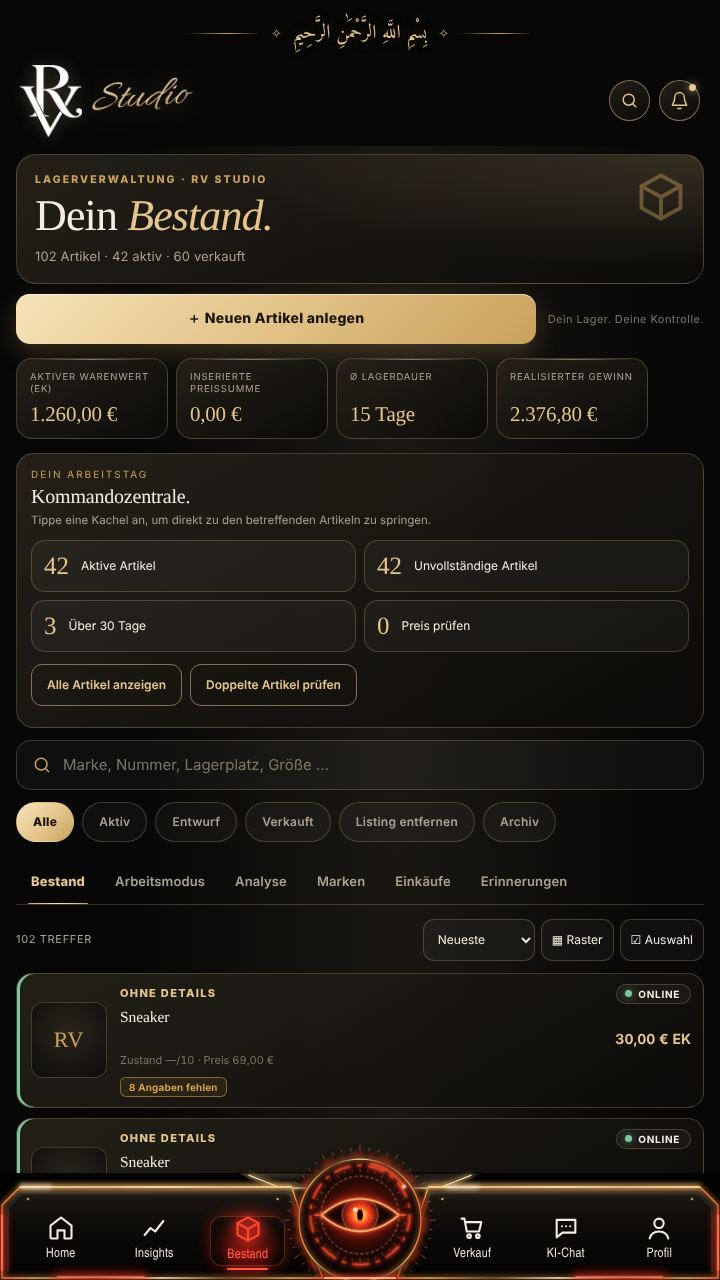
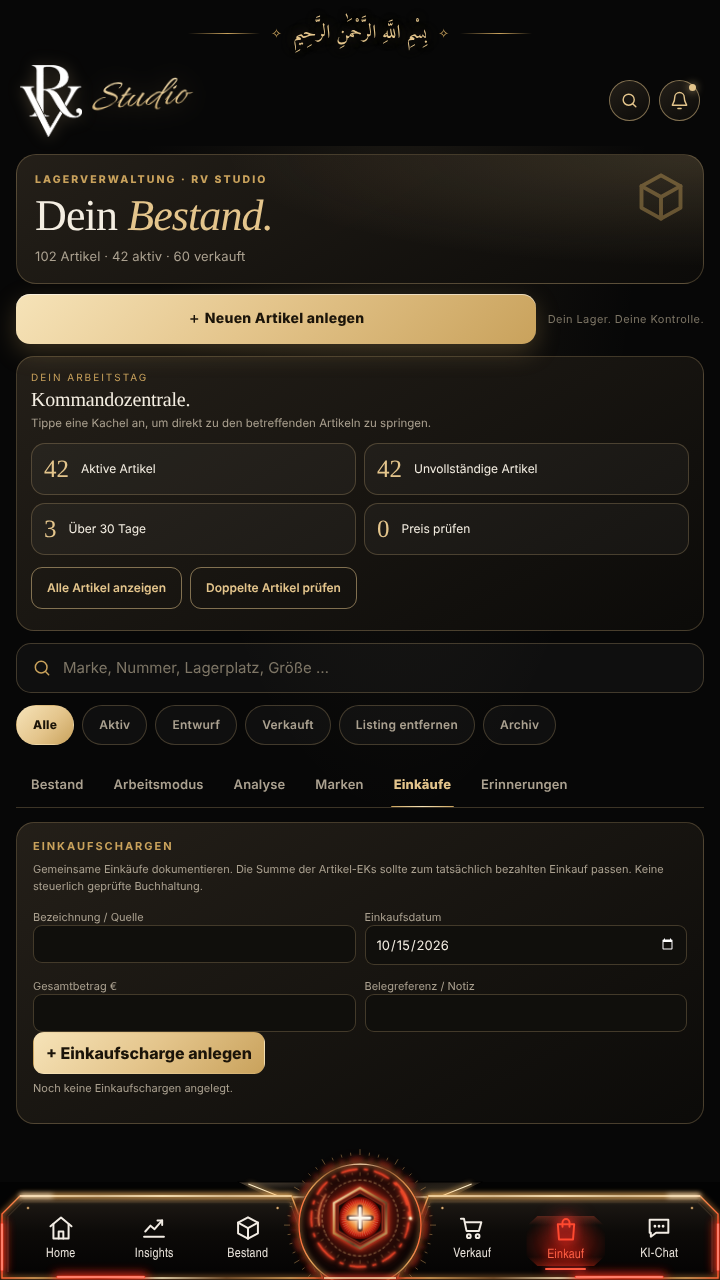
Rahmen aus Referenzbild, Menü neu mit Energie-Reaktor statt Auge
- Äußerer Rahmen und Krone aus dem gelieferten Referenzbild (rv-frame.webp,
  Innenbereich transparent), skaliert per border-image auf jede Breite
- Rahmen und Menü getrennt: Menü bleibt eigenständig gezeichnet
- Menüpunkte: Home, Insights, Bestand | Verkauf, Einkauf, KI-Chat
  (Einkauf öffnet den Einkäufe-Tab im Bestand und leuchtet aktiv)
- Mitte: Energie-Reaktor im Stil von Globus/Roboter (Skalenring, drehende
  Ringe, kreisender Lichtschweif, sechseckiger Kern mit pulsierender Energie
  und Plus) – legt einen neuen Artikel an
- Kachelförmiges rotes Leuchten für aktive Seite und beim Antippen

Claude-Session: https://claude.ai/code/session_0194bcZ5PbUBuV3hzmwdGD96

diff --git a/public/fx.js b/public/fx.js
@@ -506,127 +506,41 @@
     setTimeout(blink, 1800); setTimeout(look, 1200);
   }
 
-  /* Äußerer Panzerrahmen wie in der Referenz (fest am Bildschirmrand): massive Metallschienen,
-     Panzerplatten mit Fasen, Nieten, goldene Leuchtkanten, rote Lichtbalken und wandernde Lichtreflexe */
-  function setupBezel() {
-    if (doc.querySelector('.cc-bezel')) return;
-    var svg = svgEl('svg', { class: 'cc-bezel', 'aria-hidden': 'true', focusable: 'false' });
-    doc.body.appendChild(svg);
-    function draw() {
-      var W = window.innerWidth, H = window.innerHeight;
-      var k = W < 720 ? Math.max(0.4, W / 720) : 1, rw = 24 * k, bw = 9 * k;
-      svg.setAttribute('viewBox', '0 0 ' + W + ' ' + H); svg.setAttribute('width', W); svg.setAttribute('height', H);
-      function P(d, stroke, sw, extra) { return '<path d="' + d + '" fill="none" stroke="' + stroke + '" stroke-width="' + (+sw).toFixed(2) + '" ' + (extra || '') + '/>'; }
-      function light(d, w) { return '<g class="cc-bz-light">' + P(d, '#ff2414', 10 * w * k, 'opacity=".75" filter="url(#bzB2)" stroke-linecap="round"') + P(d, '#ff3a26', 3.6 * w * k, 'stroke-linecap="round"') + P(d, '#ffe4d2', 1.1 * w * k, 'stroke-linecap="round"') + '</g>'; }
-      function gold(d, w) { return P(d, '#ffb350', 5 * w * k, 'opacity=".55" filter="url(#bzB)" stroke-linejoin="round"') + P(d, 'url(#bzG)', 1.4 * w * k, 'stroke-linejoin="round"'); }
-      function sweep(d, dur, delay) { return P(d, '#fff6dc', 2.2 * k, 'pathLength="1000" stroke-dasharray="70 930" class="cc-bz-sweep" style="animation-duration:' + dur + 's;animation-delay:' + delay + 's" filter="url(#bzB)" stroke-linecap="round"'); }
-      function rivet(x, y) { return '<circle cx="' + x.toFixed(1) + '" cy="' + y.toFixed(1) + '" r="' + (1.7 * k).toFixed(2) + '" fill="url(#bzR)"/>'; }
-      var m = '<defs>' +
-        '<linearGradient id="bzM" x1="0" y1="0" x2="1" y2="0"><stop stop-color="#060606"/><stop offset=".2" stop-color="#2b2620"/><stop offset=".38" stop-color="#0f0e0c"/><stop offset=".6" stop-color="#3b3226"/><stop offset=".8" stop-color="#14120f"/><stop offset="1" stop-color="#2a231a"/></linearGradient>' +
-        '<linearGradient id="bzMr" x1="1" y1="0" x2="0" y2="0"><stop stop-color="#060606"/><stop offset=".2" stop-color="#2b2620"/><stop offset=".38" stop-color="#0f0e0c"/><stop offset=".6" stop-color="#3b3226"/><stop offset=".8" stop-color="#14120f"/><stop offset="1" stop-color="#2a231a"/></linearGradient>' +
-        '<linearGradient id="bzP" x1="0" y1="0" x2="1" y2="1"><stop stop-color="#4a4034"/><stop offset=".25" stop-color="#16130f"/><stop offset=".55" stop-color="#2c251c"/><stop offset="1" stop-color="#0a0908"/></linearGradient>' +
-        '<linearGradient id="bzT" x1="0" y1="0" x2="0" y2="1"><stop stop-color="#3a3228"/><stop offset=".35" stop-color="#121110"/><stop offset=".7" stop-color="#25201a"/><stop offset="1" stop-color="#0b0a09"/></linearGradient>' +
-        '<linearGradient id="bzG" x1="0" y1="0" x2="1" y2="1"><stop stop-color="#fff0c4"/><stop offset=".3" stop-color="#d09048"/><stop offset=".55" stop-color="#6a4626"/><stop offset=".8" stop-color="#f0bb70"/><stop offset="1" stop-color="#fff0c4"/></linearGradient>' +
-        '<radialGradient id="bzR"><stop stop-color="#fff0c8"/><stop offset=".5" stop-color="#a77a44"/><stop offset="1" stop-color="#2a1e12"/></radialGradient>' +
-        '<filter id="bzB" x="-50%" y="-50%" width="200%" height="200%"><feGaussianBlur stdDeviation="' + (2.6 * k).toFixed(2) + '"/></filter>' +
-        '<filter id="bzB2" x="-50%" y="-50%" width="200%" height="200%"><feGaussianBlur stdDeviation="' + (4.5 * k).toFixed(2) + '"/></filter></defs>';
-      var top = 40 * k, bot = H - 30 * k;
-      [0, 1].forEach(function (side) {
-        var X = function (x) { return side ? W - x : x; };
-        // Grundschiene
-        m += '<path d="M' + X(0) + ' 0 H' + X(rw) + ' V' + H + ' H' + X(0) + ' Z" fill="url(#' + (side ? 'bzMr' : 'bzM') + ')"/>';
-        m += P('M' + X(rw * 0.35) + ' ' + top + ' V' + bot, '#050505', 2 * k) + P('M' + X(rw * 0.35 + 1.5 * k) + ' ' + top + ' V' + bot, '#5a4a36', 0.7 * k);
-        // Panzerplatten, die nach innen vorstehen
-        var plates = side ? [[0.17, 0.36], [0.47, 0.66], [0.76, 0.9]] : [[0.12, 0.31], [0.42, 0.6], [0.7, 0.88]];
-        var edge = 'M' + X(rw) + ' ' + top;
-        plates.forEach(function (pl, i) {
-          var y0 = H * pl[0], y1 = H * pl[1], o = rw + bw, f = bw;
-          var plate = 'M' + X(rw * 0.55) + ' ' + (y0 - f) + ' L' + X(rw) + ' ' + (y0 - f) + ' L' + X(o) + ' ' + y0 + ' V' + y1 + ' L' + X(rw) + ' ' + (y1 + f) + ' L' + X(rw * 0.55) + ' ' + (y1 + f) + ' Z';
-          m += '<path d="' + plate + '" fill="url(#bzP)" stroke="#000" stroke-width="' + (k).toFixed(2) + '"/>';
-          m += P('M' + X(rw * 0.6) + ' ' + (y0 - f + 2 * k) + ' L' + X(rw + 1 * k) + ' ' + (y0 - f + 2 * k) + ' L' + X(o - 2 * k) + ' ' + (y0 + 1 * k), '#c99a5c', 0.9 * k, 'opacity=".8"');
-          edge += ' V' + (y0 - f) + ' L' + X(o) + ' ' + y0 + ' V' + y1 + ' L' + X(rw) + ' ' + (y1 + f);
-          var lx = X(rw + bw * 0.45), ly0 = y0 + 12 * k, ly1 = y1 - 12 * k;
-          m += light('M' + lx + ' ' + ly0 + ' V' + (i === 1 ? ly0 + (ly1 - ly0) * 0.6 : ly1), 1);
-          m += rivet(X(rw * 0.75), y0 - f * 0.4) + rivet(X(rw * 0.75), y1 + f * 0.4);
-          // Fasen-Chevrons in der Lücke
-          var gy = y1 + (H * 0.04);
-          m += P('M' + X(2 * k) + ' ' + (gy - 9 * k) + ' L' + X(rw - 2 * k) + ' ' + (gy + 5 * k) + ' M' + X(2 * k) + ' ' + (gy - 1 * k) + ' L' + X(rw * 0.7) + ' ' + (gy + 10 * k), '#e0aa62', 1.1 * k, 'opacity=".85"');
-        });
-        edge += ' V' + bot;
-        m += gold(edge, 1);
-        m += sweep(edge, side ? 7 : 6, side ? -3 : 0);
-        // Kleine rote Akzente außen
-        m += P('M' + X(3 * k) + ' ' + (H * 0.38) + ' V' + (H * 0.44) + ' M' + X(3 * k) + ' ' + (H * 0.64) + ' V' + (H * 0.67), '#ff3a25', 1.6 * k, 'filter="url(#bzB)"');
-      });
-      // Krone oben: breites Band, zweistufiges Trapez, zwei rote Lichtbalken, Flügelplatten zu den Ecken
-      var th = 12 * k, c0 = W * 0.22, c1 = W * 0.78, cd = 34 * k, s1 = 26 * k;
-      m += '<path d="M0 0 H' + W + ' V' + th + ' H0 Z" fill="url(#bzT)"/>';
-      var crown = 'M' + c0 + ' 0 H' + c1 + ' L' + (c1 - s1) + ' ' + cd + ' H' + (c0 + s1) + ' Z';
-      m += '<path d="' + crown + '" fill="url(#bzT)" stroke="#000" stroke-width="' + k + '"/>';
-      var inner = 'M' + (c0 + 18 * k) + ' ' + (4 * k) + ' H' + (c1 - 18 * k) + ' L' + (c1 - s1 - 6 * k) + ' ' + (cd - 7 * k) + ' H' + (c0 + s1 + 6 * k) + ' Z';
-      m += '<path d="' + inner + '" fill="#0a0908" stroke="#4e3f2e" stroke-width="' + (0.8 * k) + '"/>';
-      var ce = 'M0 ' + th + ' H' + c0 + ' L' + (c0 + s1) + ' ' + cd + ' H' + (c1 - s1) + ' L' + c1 + ' ' + th + ' H' + W;
-      m += gold(ce, 1) + sweep(ce, 5.5, -1);
-      m += light('M' + (W * 0.34) + ' ' + (cd * 0.38) + ' H' + (W * 0.66), 1.15);
-      m += light('M' + (W * 0.43) + ' ' + (cd * 0.72) + ' H' + (W * 0.57), 0.7);
-      for (var ri = 0; ri < 4; ri++) { var rx = c0 + 30 * k + ri * 10 * k; m += P('M' + rx + ' ' + (7 * k) + ' L' + (rx + 6 * k) + ' ' + (cd - 10 * k), '#3a3026', 1.4 * k) + P('M' + (W - rx) + ' ' + (7 * k) + ' L' + (W - rx - 6 * k) + ' ' + (cd - 10 * k), '#3a3026', 1.4 * k); }
-      [0, 1].forEach(function (side) {
-        var X = function (x) { return side ? W - x : x; };
-        var wing = 'M' + X(0) + ' 0 H' + X(W * 0.17) + ' L' + X(W * 0.13) + ' ' + (th + 8 * k) + ' H' + X(rw + 22 * k) + ' L' + X(rw) + ' ' + (th + 30 * k) + ' V' + (th + 70 * k) + ' H' + X(0) + ' Z';
-        m += '<path d="' + wing + '" fill="url(#bzP)" stroke="#000" stroke-width="' + k + '"/>';
-        var we = 'M' + X(rw) + ' ' + (th + 70 * k) + ' V' + (th + 30 * k) + ' L' + X(rw + 22 * k) + ' ' + (th + 8 * k) + ' H' + X(W * 0.13) + ' L' + X(W * 0.17) + ' 0';
-        m += P(we, '#ffc46c', 7 * k, 'opacity=".7" filter="url(#bzB)"') + P(we, '#fff2d0', 1.6 * k);
-        m += light('M' + X(W * 0.05) + ' ' + (th * 0.6) + ' H' + X(W * 0.11), 0.7);
-        m += rivet(X(rw * 0.6), th + 40 * k) + rivet(X(W * 0.15), th * 0.5);
-      });
-      svg.innerHTML = m;
-    }
-    draw();
-    window.addEventListener('resize', draw);
-    window.addEventListener('orientationchange', draw);
-  }
-
-  /* Allsehendes Auge in der Mitte des Menüs (im Stil von Globus und Roboter) */
-  function setupNavEye() {
-    var btn = doc.getElementById('navStudio'); if (!btn || btn.querySelector('.cc-navEye')) return;
-    var S = svgEl('svg', { viewBox: '0 0 100 100', class: 'cc-navEye', 'aria-hidden': 'true' });
+  /* Energie-Reaktor in der Mitte des Menüs (Neuer Artikel), im Stil von Globus und Roboter */
+  function setupNavCore() {
+    var btn = doc.querySelector('#bottomnav .orb'); if (!btn || btn.querySelector('.cc-core')) return;
+    var S = svgEl('svg', { viewBox: '0 0 100 100', class: 'cc-core', 'aria-hidden': 'true' });
     var d = svgEl('defs', {});
-    function grad(id, stops, attrs) { var g = svgEl('radialGradient', Object.assign({ id: id }, attrs || {})); stops.forEach(function (q) { g.appendChild(svgEl('stop', { offset: q[0], 'stop-color': q[1], 'stop-opacity': q[2] == null ? '1' : q[2] })); }); d.appendChild(g); }
-    grad('ccEyHalo', [['0', '#ff4a20', '.55'], ['.5', '#b81e0c', '.25'], ['1', '#000', '0']]);
-    grad('ccEyIris', [['0', '#fff8e8'], ['.16', '#ffd27a'], ['.38', '#ff7a2a'], ['.62', '#e0200e'], ['.86', '#5a0603'], ['1', '#200201']]);
-    grad('ccEyBall', [['0', '#2a0d07'], ['.7', '#120504'], ['1', '#050202']]);
-    var cp = svgEl('clipPath', { id: 'ccEyClip' }); var lid = svgEl('path', { d: 'M14 50 Q50 20 86 50 Q50 80 14 50 Z', class: 'cc-eyelid' }); cp.appendChild(lid); d.appendChild(cp);
-    S.appendChild(d);
-    S.appendChild(svgEl('circle', { cx: '50', cy: '50', r: '50', fill: 'url(#ccEyHalo)', class: 'cc-field-halo' }));
-    var tk = ''; for (var a = 0; a < 360; a += 10) { var r = a * Math.PI / 180, r0 = a % 30 ? 41 : 39.5; tk += 'M' + (50 + Math.cos(r) * r0).toFixed(2) + ' ' + (50 + Math.sin(r) * r0).toFixed(2) + ' L' + (50 + Math.cos(r) * 43).toFixed(2) + ' ' + (50 + Math.sin(r) * 43).toFixed(2) + ' '; }
+    function rg(id, stops) { var g = svgEl('radialGradient', { id: id }); stops.forEach(function (q) { g.appendChild(svgEl('stop', { offset: q[0], 'stop-color': q[1], 'stop-opacity': q[2] == null ? '1' : q[2] })); }); d.appendChild(g); }
+    rg('ccCoHalo', [['0', '#ff4a20', '.6'], ['.5', '#b81e0c', '.22'], ['1', '#000', '0']]);
+    rg('ccCoCore', [['0', '#fffaf0'], ['.22', '#ffe2a0'], ['.5', '#ff8a30'], ['.78', '#e0200e'], ['1', '#5a0603']]);
+    var lg = svgEl('linearGradient', { id: 'ccCoHex', x1: '0', y1: '0', x2: '1', y2: '1' });
+    [['0', '#fff0c8'], ['.35', '#c8904a'], ['.65', '#5e4026'], ['1', '#f0bb70']].forEach(function (q) { lg.appendChild(svgEl('stop', { offset: q[0], 'stop-color': q[1] })); });
+    d.appendChild(lg); S.appendChild(d);
+    S.appendChild(svgEl('circle', { cx: '50', cy: '50', r: '50', fill: 'url(#ccCoHalo)', class: 'cc-field-halo' }));
+    var tk = ''; for (var a = 0; a < 360; a += 10) { var r = a * Math.PI / 180, r0 = a % 30 ? 42 : 40.5; tk += 'M' + (50 + Math.cos(r) * r0).toFixed(2) + ' ' + (50 + Math.sin(r) * r0).toFixed(2) + ' L' + (50 + Math.cos(r) * 44).toFixed(2) + ' ' + (50 + Math.sin(r) * 44).toFixed(2) + ' '; }
     S.appendChild(svgEl('path', { d: tk, stroke: '#ffc070', 'stroke-opacity': '.55', 'stroke-width': '.6', fill: 'none' }));
     function rot(g, v, dur) { if (!reduce) g.appendChild(svgEl('animateTransform', { attributeName: 'transform', type: 'rotate', values: v, dur: dur, repeatCount: 'indefinite' })); return g; }
-    var r1 = rot(svgEl('g', {}), '0 50 50;360 50 50', '14s'); r1.appendChild(svgEl('circle', { cx: '50', cy: '50', r: '46', fill: 'none', stroke: '#ff4a2c', 'stroke-width': '1.2', 'stroke-dasharray': '16 6 4 6', class: 'cc-glowline' }));
-    var r2 = rot(svgEl('g', {}), '360 50 50;0 50 50', '9s'); r2.appendChild(svgEl('circle', { cx: '50', cy: '50', r: '36', fill: 'none', stroke: '#ffd08a', 'stroke-opacity': '.7', 'stroke-width': '.7', 'stroke-dasharray': '3 2' }));
+    var r1 = rot(svgEl('g', {}), '0 50 50;360 50 50', '14s'); r1.appendChild(svgEl('circle', { cx: '50', cy: '50', r: '47', fill: 'none', stroke: '#ff4a2c', 'stroke-width': '1.2', 'stroke-dasharray': '16 6 4 6', class: 'cc-glowline' }));
+    var r2 = rot(svgEl('g', {}), '360 50 50;0 50 50', '9s'); r2.appendChild(svgEl('circle', { cx: '50', cy: '50', r: '36.5', fill: 'none', stroke: '#ffd08a', 'stroke-opacity': '.7', 'stroke-width': '.7', 'stroke-dasharray': '3 2' }));
     var cm = rot(svgEl('g', {}), '0 50 50;360 50 50', '4.5s');
     cm.appendChild(svgEl('path', { d: 'M50 1.5 A48.5 48.5 0 0 1 84.3 15.7', fill: 'none', stroke: '#ff5a30', 'stroke-width': '1.3', 'stroke-linecap': 'round', class: 'cc-glowline' }));
     cm.appendChild(svgEl('circle', { cx: '84.3', cy: '15.7', r: '1.6', fill: '#fff0d0', class: 'cc-orbit-dot' }));
-    S.appendChild(r1); S.appendChild(r2); S.appendChild(cm);
-    // Auge: Mandelform mit Goldrand, Iris mit Strahlen, Pupille, Glanzpunkt
-    var eye = svgEl('g', { class: 'cc-navEye-ball' });
-    eye.appendChild(svgEl('path', { d: 'M14 50 Q50 20 86 50 Q50 80 14 50 Z', fill: 'url(#ccEyBall)' }));
-    var inner = svgEl('g', { 'clip-path': 'url(#ccEyClip)' });
-    var iris = svgEl('g', { class: 'cc-navEye-iris' });
-    iris.appendChild(svgEl('circle', { cx: '50', cy: '50', r: '17', fill: 'url(#ccEyIris)' }));
-    iris.appendChild(svgEl('circle', { cx: '50', cy: '50', r: '12.5', fill: 'none', stroke: '#ffcf8a', 'stroke-opacity': '.55', 'stroke-width': '6', 'stroke-dasharray': '.35 1.4' }));
-    iris.appendChild(svgEl('circle', { cx: '50', cy: '50', r: '16.5', fill: 'none', stroke: '#ff8a40', 'stroke-width': '.7' }));
-    iris.appendChild(svgEl('ellipse', { cx: '50', cy: '50', rx: '3.6', ry: '6.2', fill: '#050101', stroke: '#ff3a1e', 'stroke-width': '.8', class: 'cc-navEye-pupil' }));
-    iris.appendChild(svgEl('circle', { cx: '45.5', cy: '45', r: '2', fill: '#fff', opacity: '.9' }));
-    inner.appendChild(iris); eye.appendChild(inner);
-    eye.appendChild(svgEl('path', { d: 'M14 50 Q50 20 86 50 Q50 80 14 50 Z', fill: 'none', stroke: '#ffd08a', 'stroke-width': '1.4', class: 'cc-glowline cc-eyelid-line' }));
-    eye.appendChild(svgEl('path', { d: 'M8 50 H14 M86 50 H92', stroke: '#ff5a30', 'stroke-width': '1.2', class: 'cc-glowline' }));
-    S.appendChild(eye);
-    btn.insertBefore(S, btn.firstChild);
-    btn.classList.add('cc-has-eye');
-    if (reduce) return;
-    var looks = [[0, 0], [-1, 0], [1, 0], [-0.6, -0.5], [0.6, -0.5], [0.6, 0.5], [-0.6, 0.5]];
-    (function look() { var t = Math.random() < 0.3 ? looks[0] : looks[1 + Math.floor(Math.random() * 6)]; btn.style.setProperty('--ex', t[0]); btn.style.setProperty('--ey', t[1]); setTimeout(look, 1200 + Math.random() * 2400); })();
-    (function blink() { if (!doc.hidden) { btn.classList.add('cc-eye-blink'); setTimeout(function () { btn.classList.remove('cc-eye-blink'); }, 160); } setTimeout(blink, 2600 + Math.random() * 4500); })();
+    var cm2 = rot(svgEl('g', {}), '180 50 50;-180 50 50', '6.5s');
+    cm2.appendChild(svgEl('path', { d: 'M50 10 A40 40 0 0 1 78.3 21.7', fill: 'none', stroke: '#ffb070', 'stroke-width': '.9', 'stroke-linecap': 'round', class: 'cc-glowline' }));
+    S.appendChild(r1); S.appendChild(r2); S.appendChild(cm); S.appendChild(cm2);
+    // Sechseckiger Kern mit goldener Fassung, glühender Energie und „+“
+    function hex(r, rotDeg) { var p = []; for (var i = 0; i < 6; i++) { var t = (60 * i + rotDeg) * Math.PI / 180; p.push((50 + Math.cos(t) * r).toFixed(2) + ',' + (50 + Math.sin(t) * r).toFixed(2)); } return p.join(' '); }
+    S.appendChild(svgEl('polygon', { points: hex(30, 30), fill: '#0b0605', stroke: '#000', 'stroke-width': '2' }));
+    S.appendChild(svgEl('polygon', { points: hex(29, 30), fill: 'none', stroke: 'url(#ccCoHex)', 'stroke-width': '2.2', class: 'cc-glowline' }));
+    S.appendChild(svgEl('polygon', { points: hex(24.5, 30), fill: 'none', stroke: '#ff4a2c', 'stroke-width': '.7', 'stroke-opacity': '.8' }));
+    var core = svgEl('g', { class: 'cc-core-energy' });
+    core.appendChild(svgEl('circle', { cx: '50', cy: '50', r: '21', fill: 'url(#ccCoCore)' }));
+    core.appendChild(svgEl('circle', { cx: '50', cy: '50', r: '16', fill: 'none', stroke: '#fff0c8', 'stroke-opacity': '.45', 'stroke-width': '5', 'stroke-dasharray': '.4 1.6' }));
+    S.appendChild(core);
+    S.appendChild(svgEl('path', { d: 'M50 39.5 V60.5 M39.5 50 H60.5', stroke: '#2a0805', 'stroke-width': '5.2', 'stroke-linecap': 'round' }));
+    S.appendChild(svgEl('path', { d: 'M50 40.5 V59.5 M40.5 50 H59.5', stroke: '#fff8ea', 'stroke-width': '2.6', 'stroke-linecap': 'round', class: 'cc-core-plus' }));
+    btn.appendChild(S);
   }
 
   /* Menü: rotes Aufleuchten beim Antippen */
@@ -726,7 +640,7 @@
   function drawStatic() { for (var i = 0; i < earths.length; i++) { if (earths[i].resize()) earths[i].draw(0); } }
 
   function init() {
-    setupGlobe(); setupAvatar(); setupRobot(); setupBezel(); setupNavEye(); setupNavTap(); setupFills(); setupGlints(); setupEmbers(); setupCounters();
+    setupGlobe(); setupAvatar(); setupRobot(); setupNavCore(); setupNavTap(); setupFills(); setupGlints(); setupEmbers(); setupCounters();
     doc.documentElement.classList.add('cc-fx');
     if (reduce) { drawStatic(); window.addEventListener('resize', drawStatic); var nh = doc.getElementById('navHome'); if (nh) nh.addEventListener('click', function () { setTimeout(drawStatic, 60); }); }
     else requestAnimationFrame(frame);

diff --git a/public/ref.css b/public/ref.css
@@ -84,23 +84,6 @@ body:has(#home:not(.hidden)) .v11-ai .rv-crafted-chat #homeAiSend svg { stroke:n
 @keyframes cc-strip { 0%,100% { opacity:.7; } 50% { opacity:1; } }
 @media (prefers-reduced-motion: reduce) { .cc-edge-strip, .cc-edge-corner { animation:none; } }
 
-/* Äußerer Panzerrahmen (ersetzt die Bildstreifen und die Krone) */
-.cc-bezel { display:none; position:fixed; inset:0; z-index:18; pointer-events:none; overflow:visible; }
-body:has(#home:not(.hidden)) .cc-bezel { display:block; }
-body:has(#home:not(.hidden))::before, body:has(#home:not(.hidden))::after { display:none; }
-.v16-crown { visibility:hidden; }
-.cc-bz-light { animation: cc-strip 4.5s ease-in-out infinite; }
-@media (prefers-reduced-motion: reduce) { .cc-bz-light { animation:none; } }
-
-
-
-/* Platz für den massiveren Rahmen */
-body:has(#home:not(.hidden)) main.wrap { padding-top:48px; padding-left:40px; padding-right:40px; }
-@media(max-width:999px) { body:has(#home:not(.hidden)) main.wrap { padding-left:38px; padding-right:38px; } }
-.cc-bz-sweep { animation: cc-sweep 6s linear infinite; }
-@keyframes cc-sweep { from { stroke-dashoffset: 1000; } to { stroke-dashoffset: 0; } }
-@media (prefers-reduced-motion: reduce) { .cc-bz-sweep { display:none; } }
-
 /* Abschnittsüberschriften etwas tiefer, weg vom Rahmen */
 .v11-panel { padding-top:27px; }
 .v11-sales > .v11-seg { top:25px; }
@@ -111,37 +94,56 @@ body:has(#home:not(.hidden)) main.wrap { padding-top:48px; padding-left:40px; pa
   .v11-ai .v11-state { top:28px; }
 }
 
-/* Menü unten: massiver, klar gegliedert, rotes Leuchten */
-.lux-bottomnav { background:transparent !important; box-shadow:none !important;
+/* ===== Rahmen aus dem Referenzbild (rv-frame.webp, Vorlage 941 px breit) – getrennt vom Menü ===== */
+:root {
+  --fw: min(100vw, 860px);
+  --fr-top: calc(var(--fw) * 95 / 941);
+  --fr-side: calc(var(--fw) * 80 / 941);
+}
+.cc-frame { display:none; position:fixed; left:0; right:0; top:0; bottom:calc(70px * var(--cc-zoom, 1)); z-index:18; pointer-events:none;
+  border-style:solid; border-color:transparent; border-width:var(--fr-top) var(--fr-side) 0 var(--fr-side);
+  border-image:url('/rv-frame.webp') 95 80 0 80 stretch; }
+body:has(#home:not(.hidden)) .cc-frame { display:block; }
+body:has(#home:not(.hidden))::before, body:has(#home:not(.hidden))::after { display:none; }
+.v16-crown { display:none; }
+body:has(#home:not(.hidden)) main.wrap {
+  padding-top:calc((var(--fr-top) + 10px) / var(--cc-zoom, 1));
+  padding-left:calc((var(--fr-side) + 6px) / var(--cc-zoom, 1));
+  padding-right:calc((var(--fr-side) + 6px) / var(--cc-zoom, 1));
+  padding-bottom:124px; }
+
+/* ===== Menü unten: eigenes Design, passend zum Rahmen ===== */
+.lux-bottomnav { background:transparent !important; box-shadow:none !important; z-index:20 !important;
   grid-template-columns:repeat(3,minmax(0,1fr)) minmax(0,1.4fr) repeat(3,minmax(0,1fr)) !important;
   padding:22px 14px calc(10px + env(safe-area-inset-bottom,0px)) !important; }
+#bottomnav button.cc-nav-hidden { display:none !important; }
 .lux-bottomnav button:not(.orb) { min-height:60px; gap:6px; border-radius:10px; transition:color .2s ease; }
 .lux-bottomnav button span { color:#e8e2da; font-size:13px !important; letter-spacing:.02em !important; }
 .lux-bottomnav button:not(.orb) svg { color:#f2ece4; width:28px !important; height:28px !important; transition:filter .2s ease, color .2s ease; }
-.lux-bottomnav button:not(.orb)::before { content:''; position:absolute; left:10%; right:10%; top:6px; bottom:4px; border-radius:12px; pointer-events:none; opacity:0;
-  background:radial-gradient(ellipse 70% 75% at 50% 60%, rgba(255,40,20,.42), rgba(255,40,20,.08) 60%, transparent 75%);
-  box-shadow:inset 0 0 0 1px rgba(255,90,60,.35), 0 0 14px rgba(255,40,20,.35); transition:opacity .25s ease; }
+.lux-bottomnav button:not(.orb)::before { content:''; position:absolute; left:8%; right:8%; top:6px; bottom:4px; pointer-events:none; opacity:0;
+  clip-path:polygon(14% 0,86% 0,100% 20%,100% 80%,86% 100%,14% 100%,0 80%,0 20%);
+  background:radial-gradient(ellipse 70% 75% at 50% 58%, rgba(255,40,20,.45), rgba(255,40,20,.1) 62%, transparent 80%),
+    linear-gradient(180deg, rgba(255,90,60,.28), transparent 18%, transparent 82%, rgba(255,60,30,.32));
+  transition:opacity .25s ease; }
 .lux-bottomnav button.selected::before { opacity:1; }
 .lux-bottomnav button.selected { background:none !important; color:#ff6a4a !important; }
 .lux-bottomnav button.selected svg { color:#ff4a30 !important; filter:drop-shadow(0 0 4px #ff302b) drop-shadow(0 0 10px #ff302b) !important; }
 .lux-bottomnav button.selected span { color:#ff7a5a !important; text-shadow:0 0 8px #ff302b, 0 0 14px #ff302b88; font-weight:600 !important; }
-.lux-bottomnav button.selected::after { content:'' !important; display:block !important; position:absolute; left:28% !important; right:28% !important; bottom:0 !important; height:2px !important;
+.lux-bottomnav button:not(.orb).selected::after { content:'' !important; display:block !important; position:absolute; left:28% !important; right:28% !important; bottom:0 !important; top:auto !important; width:auto !important; height:2px !important;
   background:#ff5a40 !important; box-shadow:0 0 6px #ff302b, 0 0 14px #ff302b !important; border-radius:2px; }
 .lux-bottomnav button.cc-tap:not(.orb) svg, .lux-bottomnav button.cc-tap:not(.orb) span { color:#ff5a3a !important; }
 .lux-bottomnav button.cc-tap:not(.orb)::before { animation: cc-tapflash .65s ease-out; }
-@keyframes cc-tapflash { 0% { opacity:1; transform:scale(.85); filter:brightness(1.8); } 100% { opacity:var(--o,0); transform:scale(1.05); filter:brightness(1); } }
+@keyframes cc-tapflash { 0% { opacity:1; filter:brightness(1.9); } 100% { opacity:var(--o,0); filter:brightness(1); } }
 .lux-bottomnav button.selected.cc-tap::before { --o:1; }
 @media(hover:hover) { .lux-bottomnav button:not(.orb):not(.selected):hover svg { color:#ffb090; filter:drop-shadow(0 0 4px #ff5a3a88); } }
 
-/* Allsehendes Auge in der Mitte */
-.lux-bottomnav .orb { position:relative; margin-top:-34px !important; min-height:96px !important; }
-.lux-bottomnav .orb.cc-has-eye img { display:none; }
-.lux-bottomnav .orb svg.cc-navEye { display:block; width:108px !important; height:108px !important; overflow:visible; filter:drop-shadow(0 0 8px rgba(255,60,30,.55)); --ex:0; --ey:0; }
-.lux-bottomnav .orb { --ex:0; --ey:0; }
-.cc-navEye-iris { transform: translate(calc(var(--ex) * 9px), calc(var(--ey) * 5px)); transition: transform .45s cubic-bezier(.3,.1,.2,1); }
-.cc-navEye-ball { transform-box: view-box; transform-origin: 50px 50px; transition: transform .08s ease-in; }
-.cc-eye-blink .cc-navEye-ball { transform: scaleY(.08); }
-.cc-navEye-pupil { transform-box: fill-box; transform-origin: center; animation: cc-pupil 3.2s ease-in-out infinite; }
-@keyframes cc-pupil { 0%,100% { transform: scale(1); } 50% { transform: scale(.75,.85); } }
-.lux-bottomnav .orb.cc-tap .cc-navEye, .lux-bottomnav .orb.selected .cc-navEye { filter:drop-shadow(0 0 10px #ff302b) drop-shadow(0 0 22px #ff302b); }
-@media (prefers-reduced-motion: reduce) { .cc-navEye-pupil { animation:none; } }
+/* Energie-Reaktor in der Mitte (Neuer Artikel) */
+.lux-bottomnav .orb { position:relative; margin-top:-38px !important; min-height:100px !important; padding:0 !important; background:none !important; }
+.lux-bottomnav .orb svg.cc-core { display:block; width:104px !important; height:104px !important; overflow:visible; filter:drop-shadow(0 0 8px rgba(255,60,30,.6)); transition:filter .2s ease, transform .2s ease; }
+.cc-core-energy { transform-box:view-box; transform-origin:50px 50px; animation:cc-corepulse 2.6s ease-in-out infinite; }
+.cc-core-plus { filter:drop-shadow(0 0 2px #fff) drop-shadow(0 0 4px #ffb070); }
+@keyframes cc-corepulse { 0%,100% { transform:scale(.94); opacity:.88; } 50% { transform:scale(1.04); opacity:1; } }
+.lux-bottomnav .orb.selected svg.cc-core, .lux-bottomnav .orb.cc-tap svg.cc-core { filter:drop-shadow(0 0 10px #ff302b) drop-shadow(0 0 22px #ff302b); }
+.lux-bottomnav .orb.cc-tap svg.cc-core { transform:scale(.94); }
+@media(hover:hover) { .lux-bottomnav .orb:hover svg.cc-core { filter:drop-shadow(0 0 10px #ff5a30) drop-shadow(0 0 18px #ff302b); } }
+@media (prefers-reduced-motion: reduce) { .cc-core-energy { animation:none; } }

diff --git a/public/index.html b/public/index.html
@@ -1034,51 +1034,16 @@
 </div>
 </div>
 </section>
+<div class="cc-frame" aria-hidden="true"></div>
 <nav class="bottomnav lux-bottomnav" id="bottomnav" aria-label="Hauptnavigation">
-<button id="navHome" class="selected" aria-current="page">
-<svg viewBox="0 0 24 24" fill="none" stroke="currentColor" stroke-width="1.8" stroke-linecap="round" stroke-linejoin="round" aria-hidden="true">
-<path d="m3 10 9-7 9 7v10a1 1 0 0 1-1 1h-5v-7H9v7H4a1 1 0 0 1-1-1z"/>
-</svg>
-<span>Home</span>
-</button>
-<button id="navFinance">
-<svg viewBox="0 0 24 24" fill="none" stroke="currentColor" stroke-width="1.8" stroke-linecap="round" stroke-linejoin="round" aria-hidden="true">
-<path d="M4 18l5-6 4 3 7-9"/>
-</svg>
-<span>Insights</span>
-</button>
-<button id="navStock">
-<svg viewBox="0 0 24 24" fill="none" stroke="currentColor" stroke-width="1.8" stroke-linecap="round" stroke-linejoin="round" aria-hidden="true">
-<path d="m12 2 9 5v10l-9 5-9-5V7z"/>
-<path d="m3 7 9 5 9-5M12 12v10"/>
-</svg>
-<span>Bestand</span>
-</button>
-<button id="navStudio" class="orb" aria-label="Studio: neuen Artikel anlegen">
-<img src="/v11-navorb.webp" alt="">
-</button>
-<button id="navSales">
-<svg viewBox="0 0 24 24" fill="none" stroke="currentColor" stroke-width="1.8" stroke-linecap="round" stroke-linejoin="round" aria-hidden="true">
-<path d="M3 4h2.5l2 11h10.5l2-8H7"/>
-<circle cx="9.5" cy="19" r="1.5"/>
-<circle cx="17" cy="19" r="1.5"/>
-</svg>
-<span>Verkauf</span>
-</button>
-<button id="navChat">
-<svg viewBox="0 0 24 24" fill="none" stroke="currentColor" stroke-width="1.8" stroke-linecap="round" stroke-linejoin="round" aria-hidden="true">
-<path d="M4 5h16v11H9l-5 4V5Z"/>
-<path d="M8.5 10.5h.01M12 10.5h.01M15.5 10.5h.01"/>
-</svg>
-<span>KI-Chat</span>
-</button>
-<button id="navSettings">
-<svg viewBox="0 0 24 24" fill="none" stroke="currentColor" stroke-width="1.8" stroke-linecap="round" stroke-linejoin="round" aria-hidden="true">
-<circle cx="12" cy="8" r="4"/>
-<path d="M4 21c1-4 4-6 8-6s7 2 8 6"/>
-</svg>
-<span>Profil</span>
-</button>
+<button id="navHome" class="selected" aria-current="page"><svg viewBox="0 0 24 24" fill="none" stroke="currentColor" stroke-width="1.7" stroke-linecap="round" stroke-linejoin="round" aria-hidden="true"><path d="m3 10.5 9-7.5 9 7.5"/><path d="M5.5 8.6V21h13V8.6"/><path d="M10 21v-6h4v6"/></svg><span>Home</span></button>
+<button id="navFinance"><svg viewBox="0 0 24 24" fill="none" stroke="currentColor" stroke-width="1.7" stroke-linecap="round" stroke-linejoin="round" aria-hidden="true"><path d="M3.5 19.5h17"/><path d="m4.5 15 4.5-5 3.5 3 6.5-7.5"/><path d="M15 5.5h4v4"/></svg><span>Insights</span></button>
+<button id="navStock"><svg viewBox="0 0 24 24" fill="none" stroke="currentColor" stroke-width="1.7" stroke-linecap="round" stroke-linejoin="round" aria-hidden="true"><path d="m12 2.8 8.5 4.6v9.2L12 21.2l-8.5-4.6V7.4z"/><path d="m3.5 7.4 8.5 4.7 8.5-4.7M12 12.1v9.1"/></svg><span>Bestand</span></button>
+<button id="navStudio" class="orb" aria-label="Neuen Artikel anlegen"></button>
+<button id="navSales"><svg viewBox="0 0 24 24" fill="none" stroke="currentColor" stroke-width="1.7" stroke-linecap="round" stroke-linejoin="round" aria-hidden="true"><path d="M2.5 4h2.6l2.2 10.5h10.6l2.1-7.5H6.3"/><circle cx="9.3" cy="19" r="1.6"/><circle cx="16.8" cy="19" r="1.6"/></svg><span>Verkauf</span></button>
+<button id="navPurchases"><svg viewBox="0 0 24 24" fill="none" stroke="currentColor" stroke-width="1.7" stroke-linecap="round" stroke-linejoin="round" aria-hidden="true"><path d="M5 8h14l-1 13H6L5 8Z"/><path d="M9 10V6.5a3 3 0 0 1 6 0V10"/></svg><span>Einkauf</span></button>
+<button id="navChat"><svg viewBox="0 0 24 24" fill="none" stroke="currentColor" stroke-width="1.7" stroke-linecap="round" stroke-linejoin="round" aria-hidden="true"><path d="M4 5h16v11H9.5L5 19.5V16H4z"/><path d="M8.5 10.5h.01M12 10.5h.01M15.5 10.5h.01" stroke-width="2.4"/></svg><span>KI-Chat</span></button>
+<button id="navSettings" class="cc-nav-hidden" tabindex="-1" aria-hidden="true"><span>Einstellungen</span></button>
 </nav>
 <section id="finance" class="wrap hidden lux-finance-page">
 <div class="page-head finance-head">

diff --git a/public/dashboard.js b/public/dashboard.js
@@ -205,6 +205,7 @@ function bind(){
   var bell=$('v11Bell');if(bell)bell.addEventListener('click',function(){click('rvNotify')});
   var sales=$('navSales');if(sales)sales.addEventListener('click',function(){click('navStock');setTimeout(function(){var tab=document.querySelector('[data-v5-tab="all"]');if(tab)tab.click();var f=document.querySelector('[data-stock-filter="sold"]');if(f)f.click();var e=$('navSales');if(e){document.querySelectorAll('#bottomnav button').forEach(function(b){b.classList.toggle('selected',b===e);if(b===e)b.setAttribute('aria-current','page');else b.removeAttribute('aria-current')})}},90)});
   var mic=document.querySelector('#v11Root .rv-crafted-chat-icon');if(mic){mic.addEventListener('click',listen)}
+  var np=$('navPurchases');if(np)np.addEventListener('click',function(){actions.purchases();setTimeout(function(){document.querySelectorAll('#bottomnav button').forEach(function(b){var on=b===np;b.classList.toggle('selected',on);if(on)b.setAttribute('aria-current','page');else b.removeAttribute('aria-current')})},200)});
   var more=$('v11InsightsAll');if(more)more.addEventListener('click',function(){click('navFinance')});
 }
 

diff --git a/public/sw.js b/public/sw.js
@@ -1,10 +1,10 @@
-const CACHE='rv-studio-v18-reference-9';
+const CACHE='rv-studio-v18-reference-10';
 const FILES=['/','/index.html','/app.css','/dashboard.css','/fx.css','/ref.css','/app.js','/dashboard.js','/fx.js',
   '/vendor/jszip.min.js','/fonts/command-sans-regular.otf','/fonts/command-sans-bold.otf',
   '/rv-logo.jpg','/rv-ai-mascot.png','/rv-robot-premium.png','/rv-white.png',
   '/rv-mark-cropped.png','/rv-studio-script.png','/icons/icon-192.png','/icons/icon-512.png',
   '/manifest.webmanifest','/v11-globe.webp','/v11-robot.webp','/v11-navorb.webp',
-  '/v11-avatar.webp','/v15-frame-left.png','/v15-frame-right.png'];
+  '/v11-avatar.webp','/v15-frame-left.png','/v15-frame-right.png','/rv-frame.webp'];
 self.addEventListener('install',event=>event.waitUntil(
   caches.open(CACHE).then(cache=>cache.addAll(FILES)).then(()=>self.skipWaiting())
 ));
